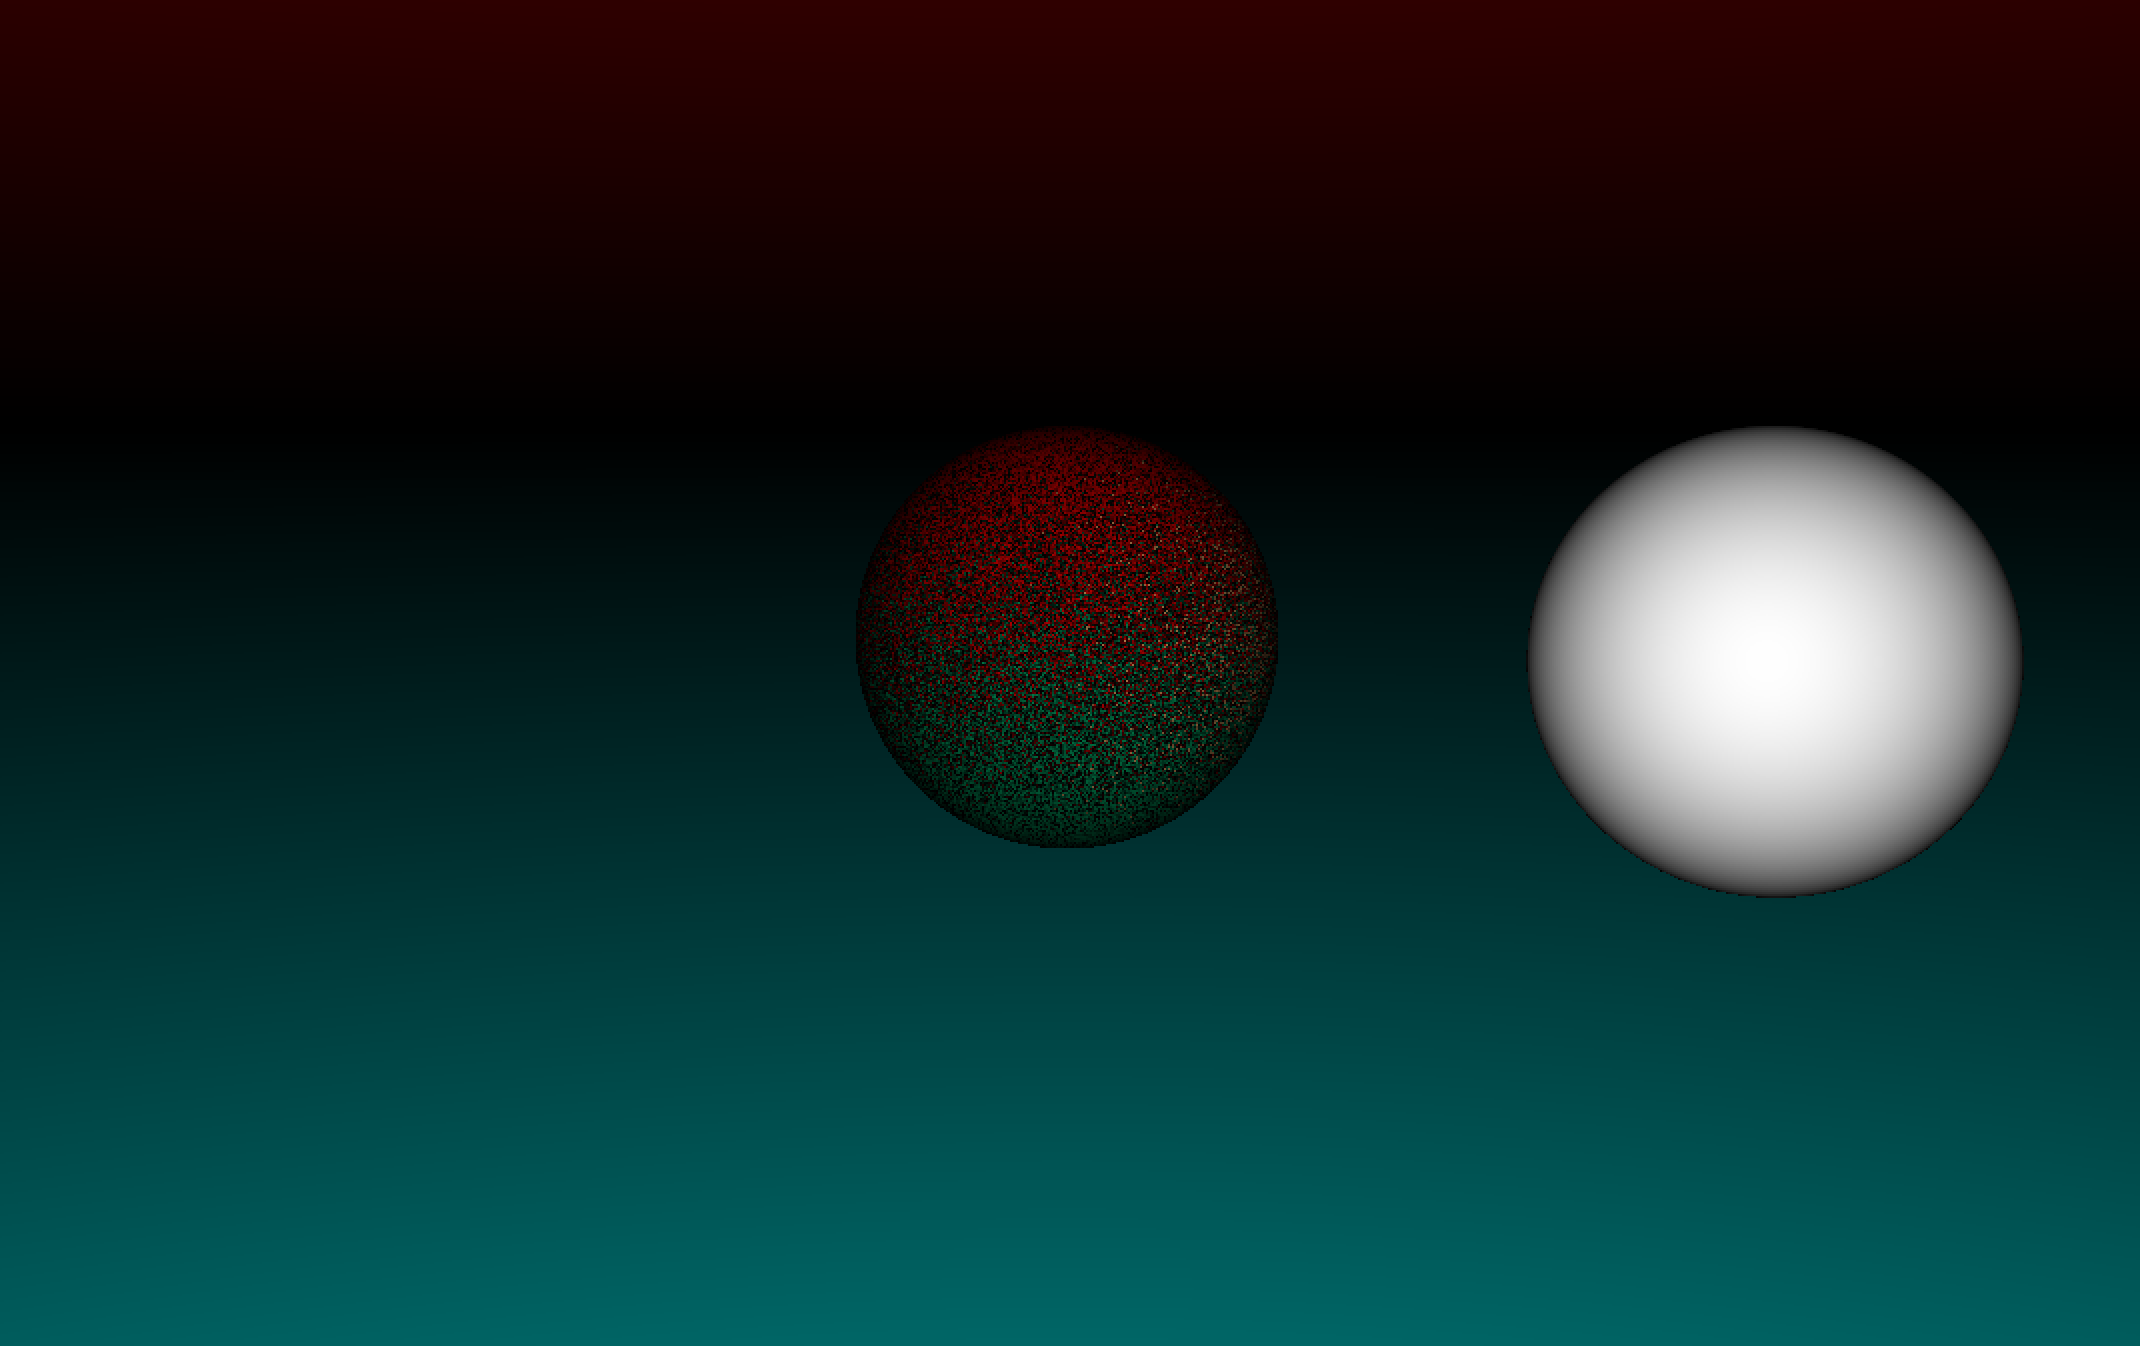
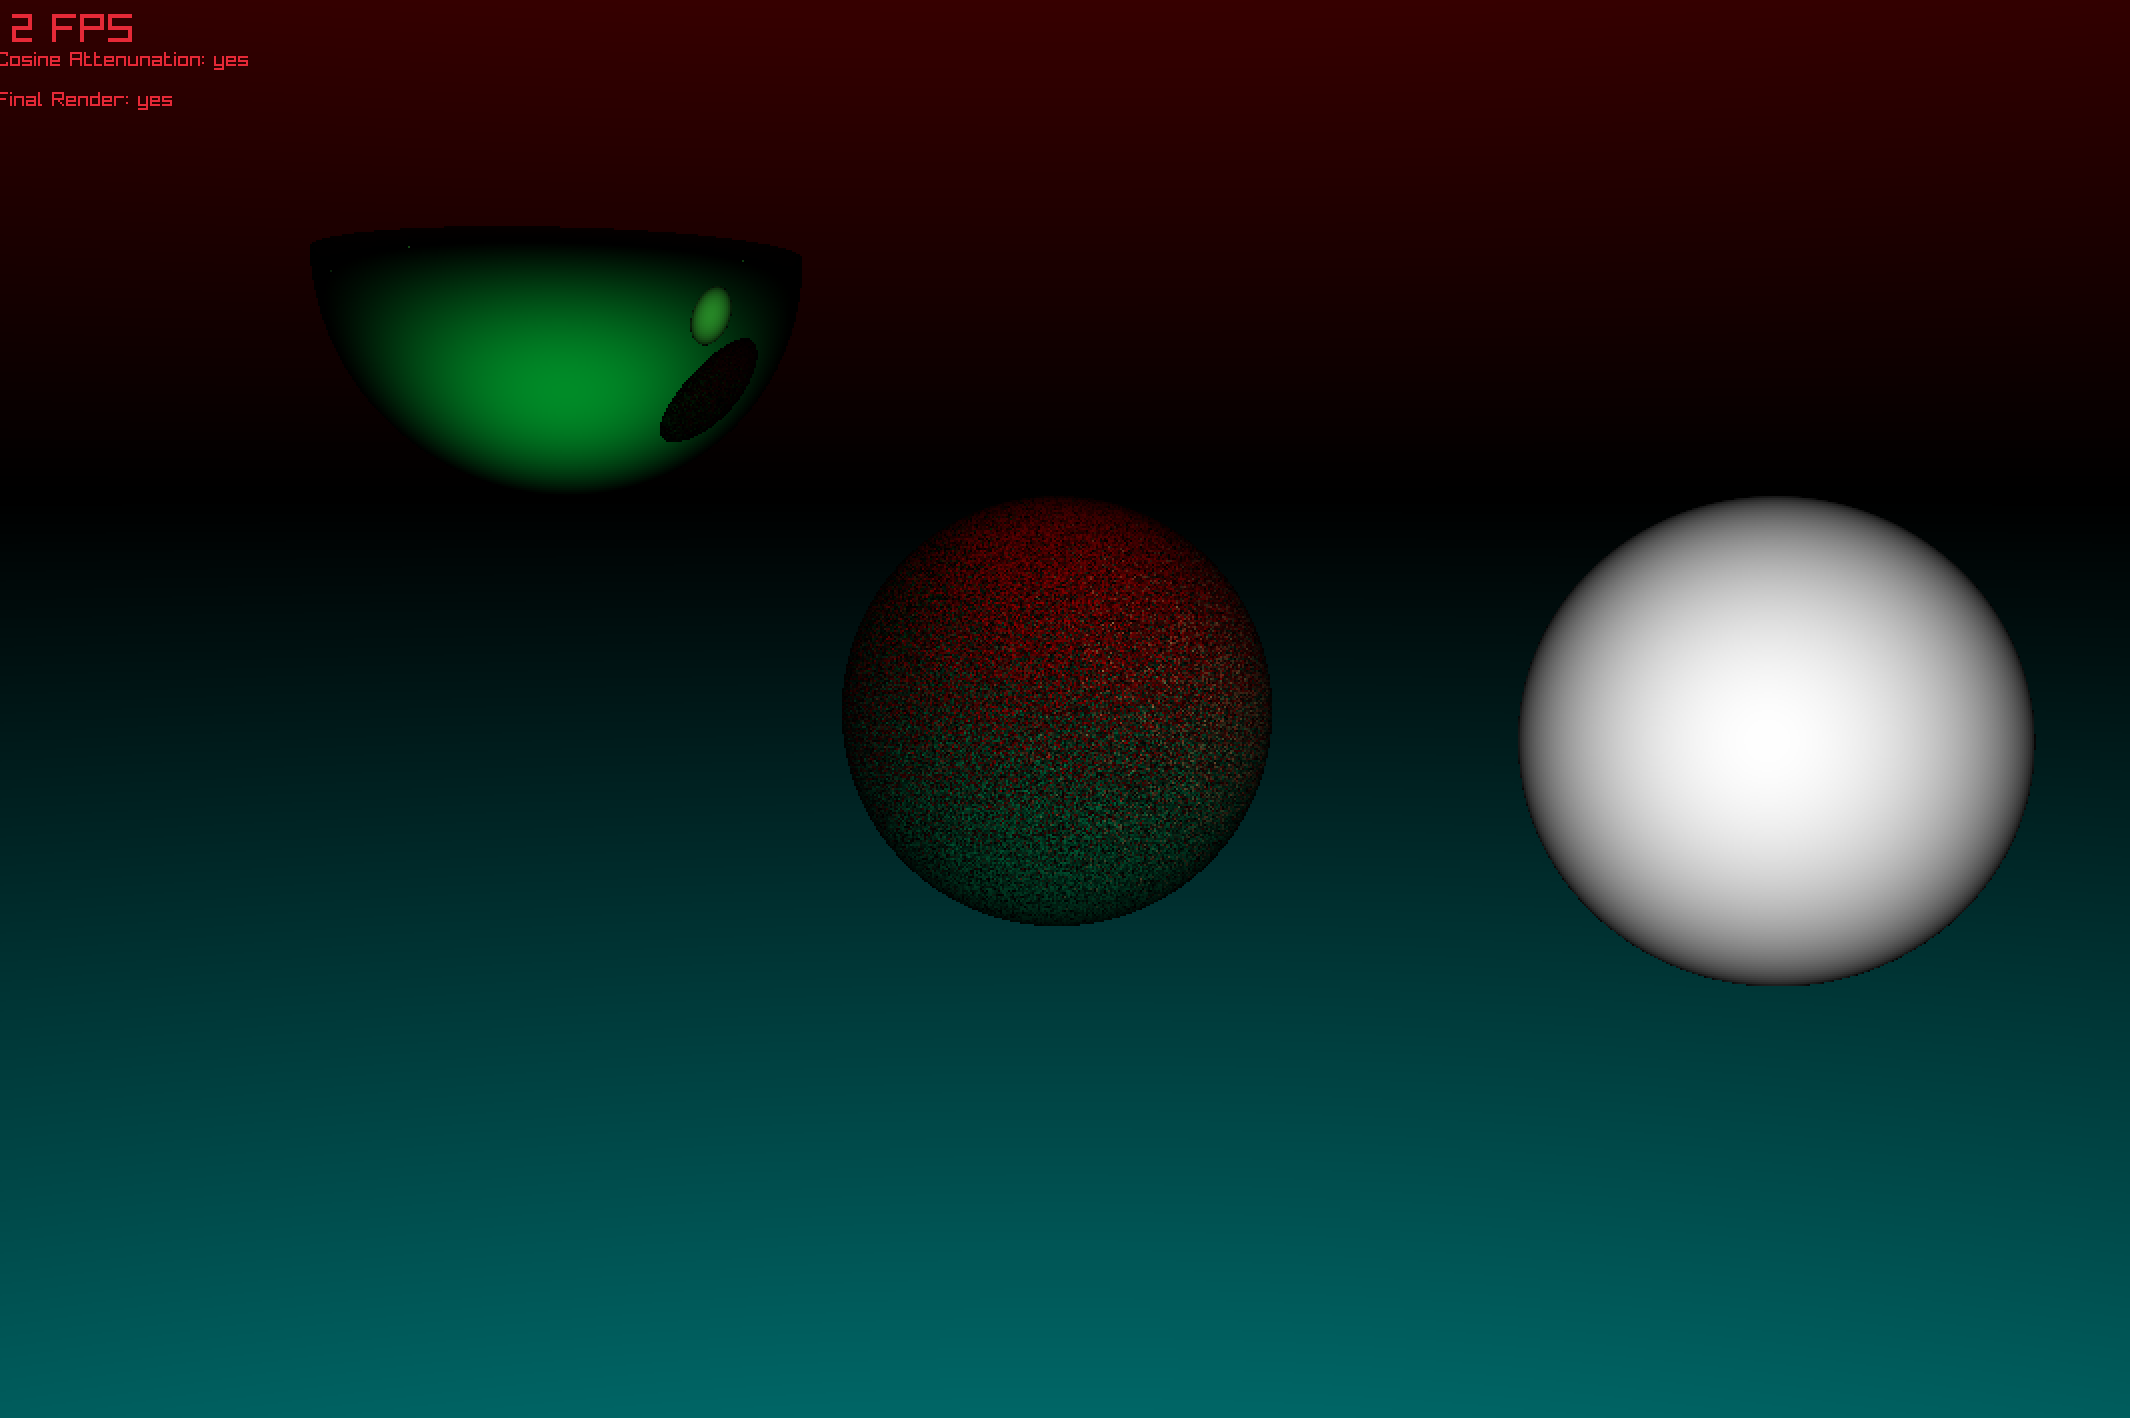
Added new example image

diff --git a/rlib_rayray.cpp b/rlib_rayray.cpp
@@ -15,10 +15,14 @@
 #define SCREEN_WIDTH 1080
 #define SCREEN_HEIGHT 720
 
-#define RAYCOUNTMAX 8
-#define RAYSPERPIXEL 1
+// #define RAYCOUNTMAX 16
+// #define RAYSPERPIXEL 16
+
+global u32 RAYCOUNTMAX = 8;
+global u32 RAYSPERPIXEL = 2;
 
 global bool UseCosAtten = false;
+global bool Finalrender = false;
 
 internal Vector3
 CameraControl(Vector3 CameraP)
@@ -65,6 +69,13 @@ CameraControl(Vector3 CameraP)
     if (IsKeyPressed(KEY_R))
     {
         CameraP = {0, -10, 1};
+        RAYSPERPIXEL = 2;
+    }
+
+    if (IsKeyPressed(KEY_P))
+    {
+        RAYCOUNTMAX = 8;
+        Finalrender = !Finalrender;
     }
 
     return(CameraP);
@@ -202,16 +213,16 @@ int main()
     Planes[1].d = 2.0;
     Planes[1].MatIndex = 5;
 
-    sphere Spheres[2] = {}; 
+    sphere Spheres[3] = {}; 
     Spheres[0].Center = {0,0,0};
     Spheres[0].Radius = 1.0f;
     Spheres[0].MatIndex = 2;
     Spheres[1].Center = {3,-1,0};
     Spheres[1].Radius = 1.0f;
     Spheres[1].MatIndex = 3;
-    // Spheres[2].Center = {-2,-1,2};
-    // Spheres[2].Radius = 1.0f;
-    // Spheres[2].MatIndex = 4;
+    Spheres[2].Center = {-2,-1,2};
+    Spheres[2].Radius = 1.0f;
+    Spheres[2].MatIndex = 4;
 
     world World = {};
     World.MaterialCount = 3;
@@ -300,6 +311,7 @@ int main()
             UpdateTexture(texture, Pixels); 
             DrawTexture(texture, 0, 0, WHITE);
             DrawText(TextFormat("Cosine Attenunation: %s", UseCosAtten ? "yes" : "no"),10,30,4,RED);
+            DrawText(TextFormat("Final Render: %s", Finalrender ? "yes" : "no"),10,50,4,RED);
             DrawFPS(10,10);
         EndDrawing();
     }
